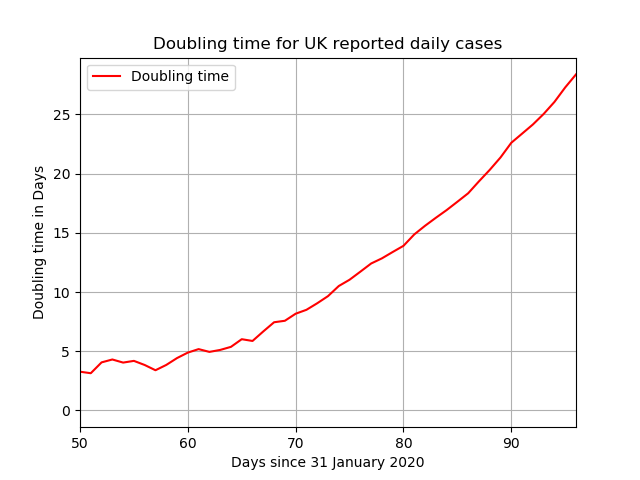
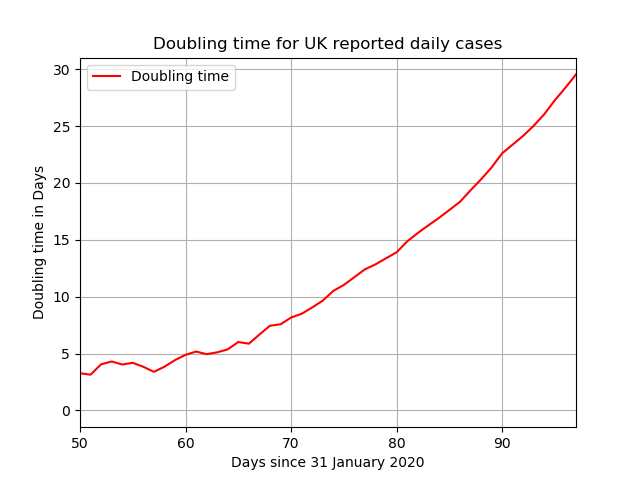
Daily run

diff --git a/README.md b/README.md
@@ -42,17 +42,17 @@ It is the combination that produces the lowest error.
 Output Details
 --------------
 <h3>Exponential function coefficients for new cases</h3>
-[431.70291774   1.02472225]
+[452.85961364   1.02373338]
 <h4>Covariance of coefficients</h4>
-[[ 1.28546968e+04 -3.75667054e-01]
- [-3.75667054e-01  1.15959547e-05]]
+[[ 1.39782114e+04 -3.86281804e-01]
+ [-3.86281804e-01  1.13065191e-05]]
 <h3>Exponential function coefficients for daily deaths</h3>
-[50.8408738   1.02999843]
+[52.70136454  1.02933815]
 <h4>Covariance of coefficients</h4>
-[[ 2.40172501e+02 -5.85419880e-02]
- [-5.85419880e-02  1.48378881e-05]] <br/>
+[[ 2.46019758e+02 -5.73241814e-02]
+ [-5.73241814e-02  1.39005623e-05]] <br/>
 <h3>Best offset and factor for third graph</h3>
 6 18%
 <h4>Average Error</h4>
-105.34
-<br /><br />Last updated on 2020-05-05 17:43:24.831843
+105.27
+<br /><br />Last updated on 2020-05-06 19:06:39.493812

diff --git a/out/fit.md b/out/fit.md
@@ -1,15 +1,15 @@
 <h3>Exponential function coefficients for new cases</h3>
-[431.70291774   1.02472225]
+[452.85961364   1.02373338]
 <h4>Covariance of coefficients</h4>
-[[ 1.28546968e+04 -3.75667054e-01]
- [-3.75667054e-01  1.15959547e-05]]
+[[ 1.39782114e+04 -3.86281804e-01]
+ [-3.86281804e-01  1.13065191e-05]]
 <h3>Exponential function coefficients for daily deaths</h3>
-[50.8408738   1.02999843]
+[52.70136454  1.02933815]
 <h4>Covariance of coefficients</h4>
-[[ 2.40172501e+02 -5.85419880e-02]
- [-5.85419880e-02  1.48378881e-05]] <br/>
+[[ 2.46019758e+02 -5.73241814e-02]
+ [-5.73241814e-02  1.39005623e-05]] <br/>
 <h3>Best offset and factor for third graph</h3>
 6 18%
 <h4>Average Error</h4>
-105.34
-<br /><br />Last updated on 2020-05-05 17:43:24.831843
+105.27
+<br /><br />Last updated on 2020-05-06 19:06:39.493812
